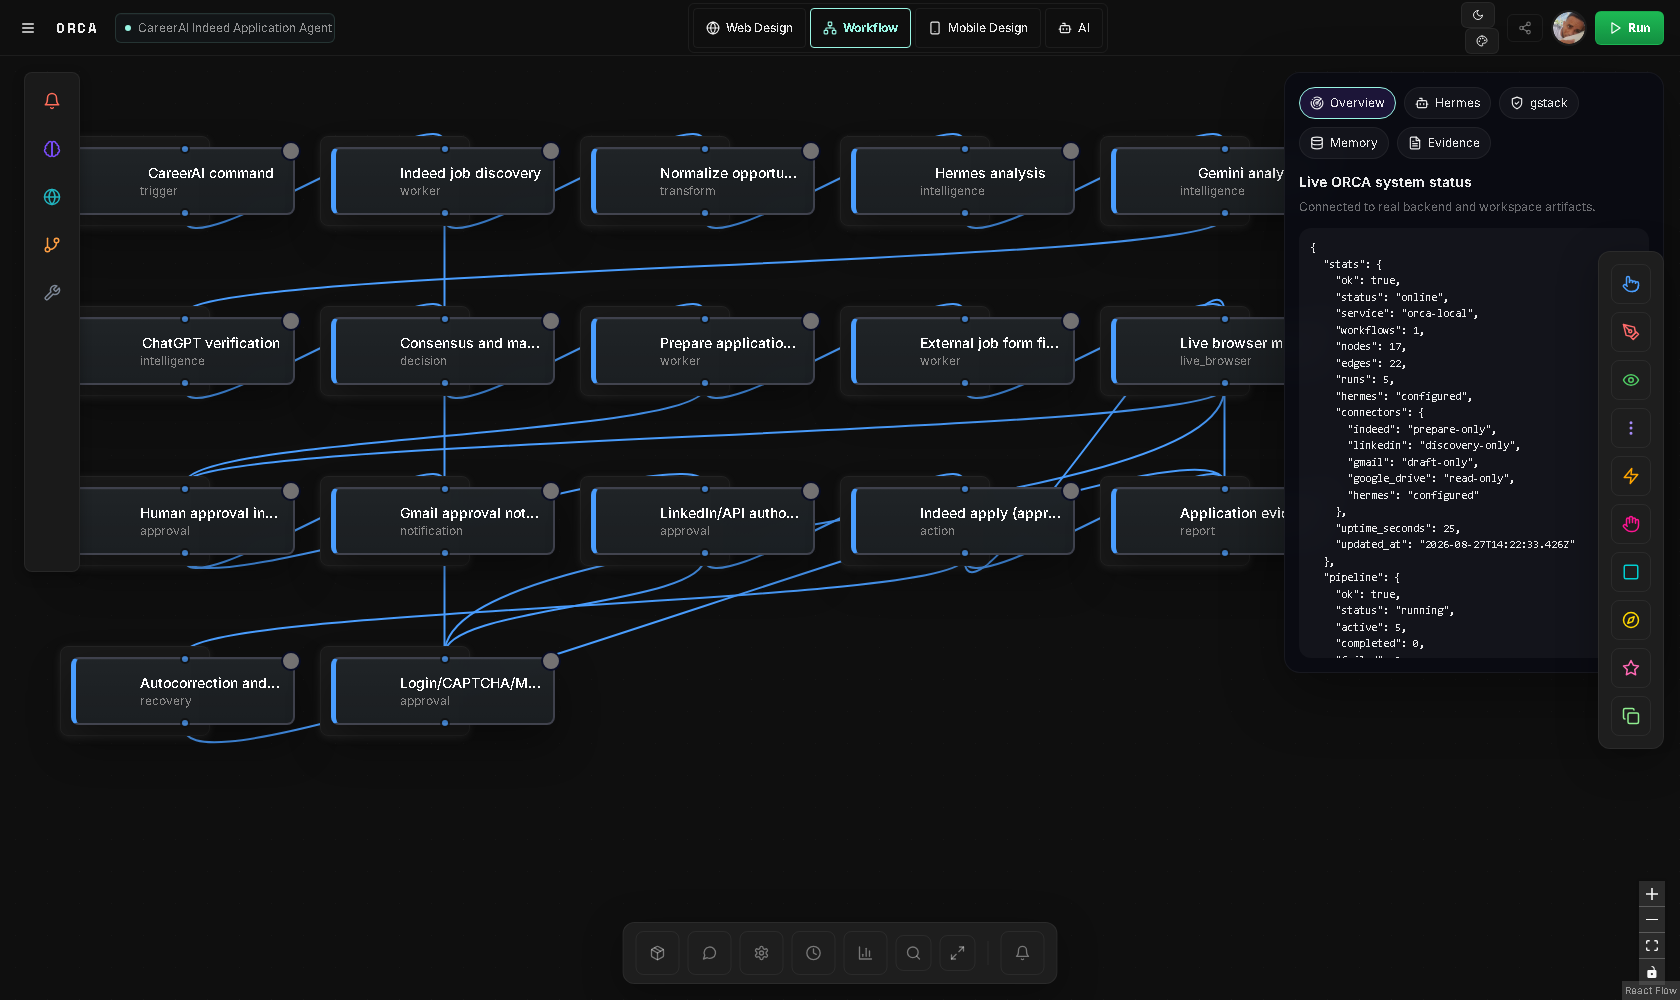
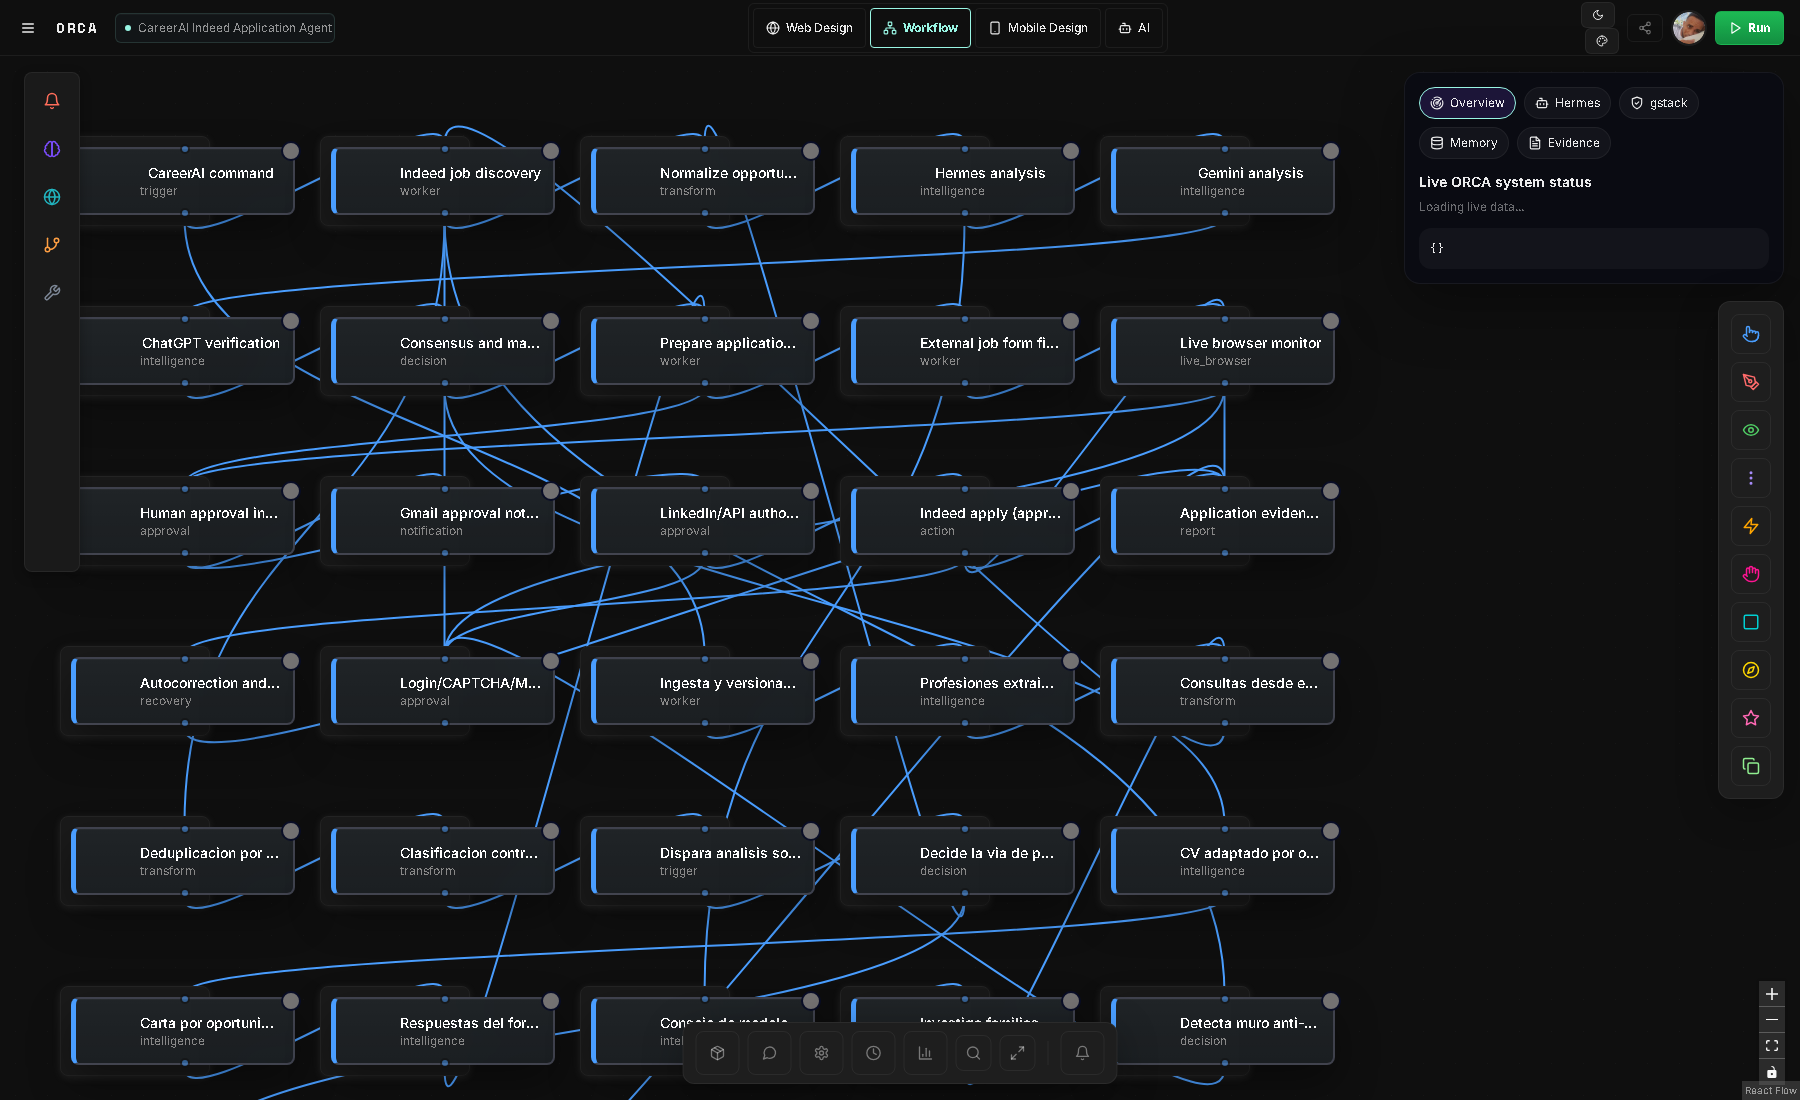
feat(careerai): el grafo del editor pasa de 17 a 32 nodos
Los modulos construidos existian como codigo probado pero no estaban en el
blueprint, asi que el editor mostraba una arquitectura desactualizada. Se
promueven los 15 nodos que tienen modulo implementado y test propio, con las 21
aristas del flujo real: ingesta del CV, extraccion de profesiones, construccion de
consultas, deduplicacion, clasificacion, disparo por posicion nueva y decision de
la via de postulacion, mas la rama de artefactos por oportunidad y la de reporte
al cliente.

Criterio de promocion: solo entra al grafo lo que tiene implementacion y test.
Declarar algo sin implementar convertiria el editor en una lista de deseos.

Verificado en el canvas: 32 nodos y 43 edges renderizados sin errores.
Regresion: 18/18 offline y 3/3 live en verde.

Claude-Session: https://claude.ai/code/session_011JukgpnEKmojypDHekAGdP

diff --git a/CHANGE_TIMELINE.md b/CHANGE_TIMELINE.md
@@ -587,3 +587,26 @@ corridas, estado de Hermes y conectores.
 **URL del editor:** `http://127.0.0.1:4173/?workflow=careerai-indeed-agent` (`npm run orca:start`).
 
 Regresion: 18/18 offline y 3/3 de la suite live en verde.
+
+### El grafo pasa de 17 a 32 nodos
+
+Los modulos construidos existian como codigo probado pero no estaban en el blueprint, asi
+que el editor mostraba una arquitectura desactualizada. Se promueven al grafo los **15 nodos
+que tienen modulo implementado y test propio**, con las **21 aristas** que reflejan el flujo
+real:
+
+`career-command -> cv-ingest -> profession-extractor -> search-profile-builder -> discovery
+-> dedupe-canonical -> stack-classifier -> new-position-trigger -> apply-method-classifier`
+
+y la rama de artefactos `consensus-score -> cv-tailor -> cover-letter-writer ->
+screening-answers -> application-draft`, mas `unsupported-collector -> pdf-report-builder ->
+evidence-log` para lo que no se puede completar.
+
+**Criterio de promocion:** solo entra al grafo lo que tiene implementacion y test. Declarar
+en el blueprint algo sin implementar convertiria el editor en una lista de deseos, que es
+justo lo que el validador de inventario existe para impedir.
+
+Verificado en el canvas: **32 nodos y 43 edges renderizados, sin errores de pagina**.
+
+Inventario: 95 nodos — 32 listos, 13 con prototipo, 50 por construir.
+Regresion: 18/18 offline y 3/3 live en verde.
